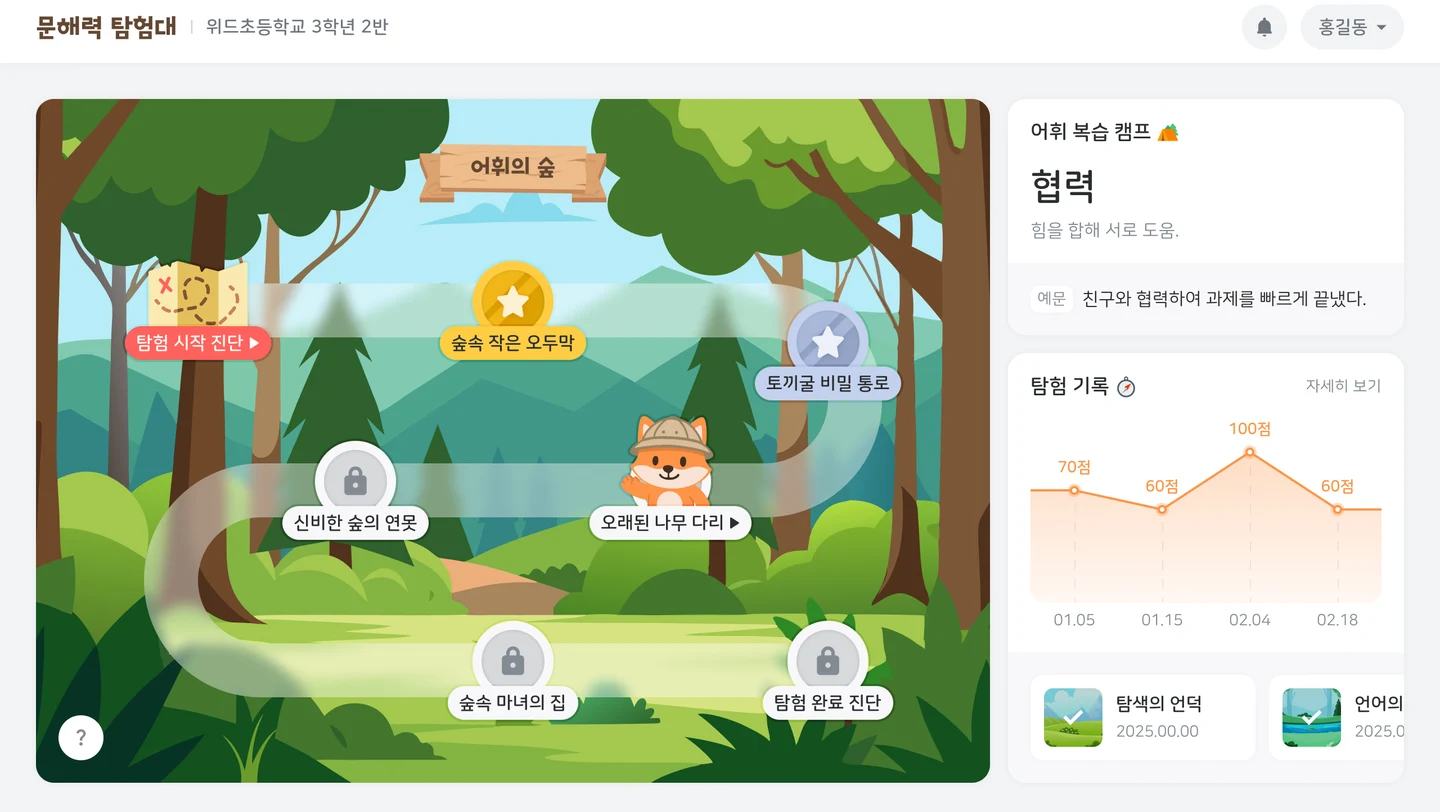
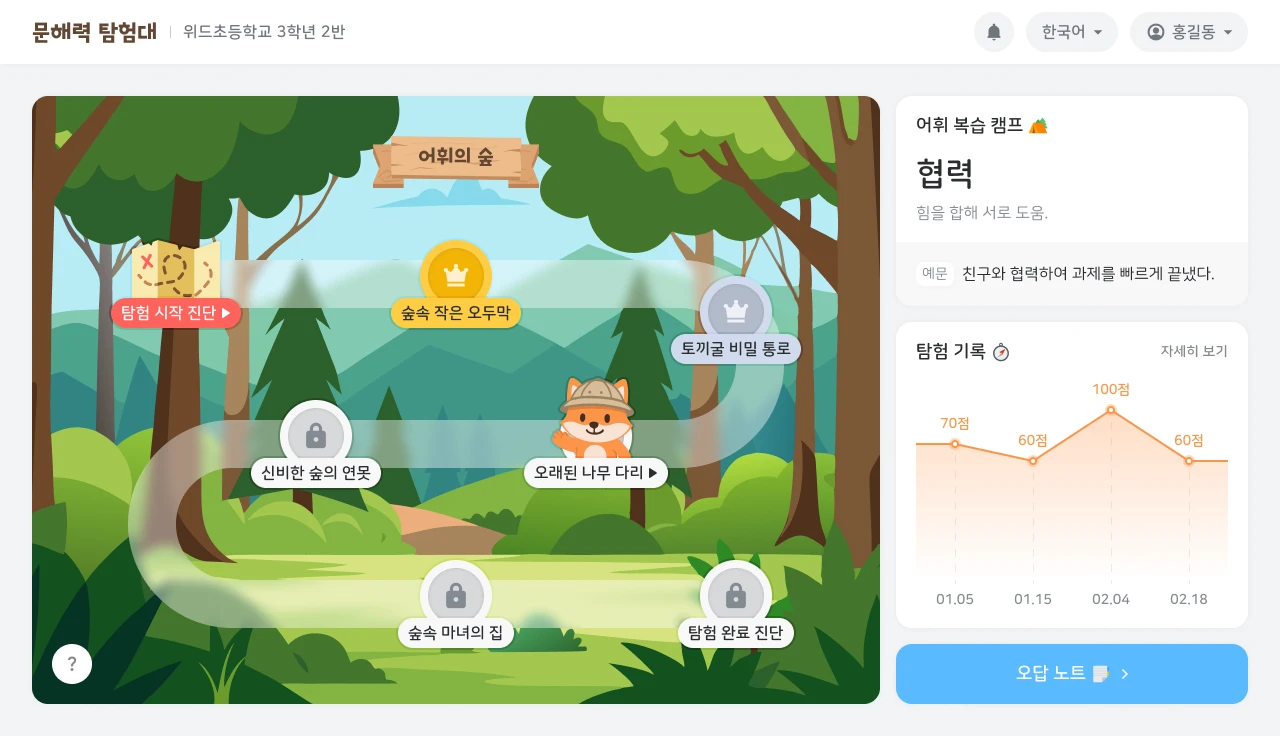
작은 화면에서 자세히 보기 가려짐 수정 외
- 스택: 카드가 화면보다 길면 고정 위치를 올려 버튼까지 보인 뒤 고정 (1280x620~ 8장 모두 클릭 가능)
- 카드 제목 옆 작은 영문명(XaaS·JOBKOK·JANGO·INTERBOX·HoloOrder)
- 문해력탐험대: Figma 진단하기 홈, 흰색 태블릿 베젤
- 말풍선: 안녕하세요!

diff --git a/index.html b/index.html
@@ -97,6 +97,9 @@ nav a.on{color:var(--ink)}
 .pcard:nth-child(5){background:#f3edff;top:146px}
 .pcard .hd{display:flex;justify-content:space-between;align-items:flex-start;gap:20px;flex-wrap:wrap}
 .pcard .tag{font-family:var(--mono);font-size:10.5px;letter-spacing:.08em;border:1.5px solid var(--ink);background:#fff;padding:5px 11px;border-radius:100px;text-transform:uppercase}
+.pcard h3 .en,.pc-tb .nm .en{font-family:var(--mono);font-weight:500;letter-spacing:.08em;color:var(--gy);vertical-align:middle}
+.pcard h3 .en{font-size:.36em;margin-left:.5em;position:relative;top:-.1em}
+.pc-tb .nm .en{font-size:.72em}
 .pcard h3{font-size:clamp(28px,3.6vw,46px);font-weight:800;letter-spacing:-.035em;line-height:1.05;margin-top:16px}
 .pcard .bd{display:grid;grid-template-columns:1.1fr 1fr;gap:38px;margin-top:22px;align-items:start}
 .pcard p{font-size:15.5px;color:#3d3d44;text-wrap:pretty}
@@ -307,8 +310,9 @@ html.lock{overflow:hidden}
 .scr.cab .kl{height:42px;display:grid;place-items:center;font-family:var(--mono);font-size:9.5px;letter-spacing:.16em;color:var(--gy)}
 .scr.cab .kf{width:150px;height:14px;margin-top:6px;border:2.5px solid var(--ink);border-radius:4px;background:#e9e5dc;box-shadow:5px 5px 0 var(--ink)}
 /* 태블릿(가로): 균일한 검정 베젤 + 전면 카메라 점 */
-.scr.tab .kb{position:relative;border:2.5px solid var(--ink);border-radius:22px;background:#1d1d22;padding:16px 20px;box-shadow:9px 9px 0 var(--ink)}
-.scr.tab .kb::before{content:'';position:absolute;left:8px;top:50%;width:5px;height:5px;margin-top:-2.5px;border-radius:50%;background:#55555c}
+.scr.tab .kb{position:relative;border:2.5px solid var(--ink);border-radius:22px;background:#fff;padding:16px 20px;box-shadow:9px 9px 0 var(--ink)}
+.scr.tab .kb::before{content:'';position:absolute;left:8px;top:50%;width:5px;height:5px;margin-top:-2.5px;border-radius:50%;background:var(--ink)}
+.scr.tab .ks{border:2px solid var(--ink)}
 .scr.tab .ks{width:100%;max-width:400px;border-radius:6px}
 .scr.tab .ks img{height:auto}
 @media(max-width:760px){.scr.stand .ks{width:176px}.scr.stand .kf{width:226px}.scr.cab .ks{width:156px}.scr.tab .kb{padding:10px 14px;border-radius:16px}}
@@ -547,7 +551,7 @@ html.lock{overflow:hidden}
     </div>
     <div class="lego-slot" aria-hidden="true">
       <div class="lego" id="lego" data-state="hero" title="임서하">
-        <div class="lg-bubble" id="lgBubble">안녕하세요<br>임서하입니다.</div>
+        <div class="lg-bubble" id="lgBubble">안녕하세요!<br>임서하입니다.</div>
         <div class="lg-fig"><div class="lg-tilt">
           <div class="lg-p lg-legs" style="--i:0;position:absolute;inset:0;z-index:1">
             <img class="lg-part" style="left:23.9%;top:55.31%;width:75.49%" src="assets/lego_studs.webp" alt="" draggable="false">
@@ -638,7 +642,7 @@ function CK(t){return '<span class="ck">확인 필요'+(t?' · '+esc(t):'')+'</s
 /* ================= 데이터 (출처: projects.json verified_numbers / my_role / deliverables) ================= */
 var P = [
 {
- id:'xaas', main:{src:'assets/xaas_admin_home_v2.webp',w:1600,h:1120,cap:'자스 관리자 홈 (고도화) — 회차 잔여일·교육 현황·점수 비교',date:'Figma 디자인 v2 · PC'}, no:'001', name:'자스', tag:'AI 교육 · B2B SaaS', period:'2025.02 – 2025.07 (고도화)', ac:'#2f5bff',
+ id:'xaas', main:{src:'assets/xaas_admin_home_v2.webp',w:1600,h:1120,cap:'자스 관리자 홈 (고도화) — 회차 잔여일·교육 현황·점수 비교',date:'Figma 디자인 v2 · PC'}, no:'001', name:'자스', en:'XaaS', tag:'AI 교육 · B2B SaaS', period:'2025.02 – 2025.07 (고도화)', ac:'#2f5bff',
  cv:{role:'단독 — AI 교육 고도화 기획 (요구사항·스토리보드 작성)',roleCk:'v2 시각 디자인 제작 주체',scope:'교육생·관리자 고도화 요구사항(교육 8 · 면접 4) · 교육 스토리보드 20p · 관리자 홈·상담사·교육 관리·평가 리포트 재설계',out:null,outNote:'개발 반영·운영 여부와 사용 지표는 근거가 없어 기재하지 않음'},
  stamp:'단독', status:'고도화 기획서 · Figma v2 PC 화면 확인 — 개발 반영·운영 여부 확인 필요',
  one:'NIPA XaaS 선도프로젝트로 만든 상담원 대상 AI 교육·AI 면접 서비스입니다. 이전 기획자가 설계한 1차 버전을 2025년에 고도화하며 요구사항과 교육생·관리자 스토리보드를 단독으로 작성했습니다.',
@@ -676,7 +680,7 @@ var P = [
  missing:['IA','유저플로우','운영정책서']
 },
 {
- id:'literacy', main:{src:'assets/main_literacy.webp',w:1440,h:812,dev:'tab',cap:'문해력탐험대 학생 홈 — 어휘의 숲 탐험 지도·탐험 기록',date:'고도화 화면 · 태블릿'}, no:'002', name:'문해력탐험대', tag:'Education · B2G', period:'2024.11 – 운영 중', ac:'#ff5d3b',
+ id:'literacy', main:{src:'assets/main_literacy.webp',w:1280,h:736,dev:'tab',cap:'문해력탐험대 진단하기 홈 — 어휘의 숲 탐험 지도·탐험 기록',date:'Figma 고도화 디자인 · 태블릿'}, no:'002', name:'문해력탐험대', tag:'Education · B2G', period:'2024.11 – 운영 중', ac:'#ff5d3b',
  cv:{role:'단독 — 서비스 기획 전담 (약관·소개서·학생매뉴얼은 선임 선행본 개정·고도화)',scope:'요구사항 → 데이터정책 V1.1 → QA(11인 분담) → 매뉴얼·약관 → CS 12건, 전 주기',out:'실제 도입 학교 <mark>0 → 10곳</mark> · 실사용 학생 <mark>533명</mark>'},
  stamp:'단독', status:'오픈 · 운영 중',
  one:'초·중등 대상 AI 문해력 진단·트레이닝. 요구사항부터 운영·CS까지 한 서비스의 전 주기를 맡아, 실제 도입 학교 2025년 0곳 → 2026년 10곳으로 이어졌습니다.',
@@ -793,7 +797,7 @@ var P = [
  missing:['IA','유저플로우','WBS','회의록']
 },
 {
- id:'jobkok', main:{src:'assets/main_jobkok.webp',w:1440,h:806,cap:'잡콕 2.0 홈 — 통합 검색 + 직군 20종 마퀴',date:'Figma 2.0 디자인 · PC'}, no:'005', name:'잡콕', tag:'Platform / Data', period:'2025.10 – 고도화 중', ac:'#ffc83d',
+ id:'jobkok', main:{src:'assets/main_jobkok.webp',w:1440,h:806,cap:'잡콕 2.0 홈 — 통합 검색 + 직군 20종 마퀴',date:'Figma 2.0 디자인 · PC'}, no:'005', name:'잡콕', en:'JOBKOK', tag:'Platform / Data', period:'2025.10 – 고도화 중', ac:'#ffc83d',
  cv:{role:'공동 — 고도화 기획 · QA · 데이터 담당',scope:'QA TC 작성 규칙 제정 · QA 체크리스트 설계(7인 분담) · 직무분류표 · 온톨로지 4종 · 약관 3종',out:'QA <mark>397케이스</mark> 설계, N/A <mark>12건 전부</mark> 기획서 미정의로 역추적'}, polFile:'잡콕_QA_체크리스트_임서하.xlsx',
  stamp:'공동', status:'개발중 · 고도화 진행 중',
  one:'AI 면접 분석 + 채용공고 통합 플랫폼. QA 397케이스를 설계해 N/A 12건 전부가 기획서 미정의였음을 역추적하고, 직무분류·온톨로지 등 AI 데이터 파트까지 맡았습니다.',
@@ -829,7 +833,7 @@ var P = [
  missing:['기능명세서','IA','WBS']
 },
 {
- id:'janggo', main:{src:'assets/main_janggo.webp',w:1440,h:945,cap:'장고 구직자 홈 — 공고 검색 + AI 적합도 공고 카드',date:'Figma 디자인 · PC'}, no:'006', name:'장고', tag:'서울형 R&D 사업 · B2G', period:'2026.04 – 2026.09', ac:'#9a63ff',
+ id:'janggo', main:{src:'assets/main_janggo.webp',w:1440,h:945,cap:'장고 구직자 홈 — 공고 검색 + AI 적합도 공고 카드',date:'Figma 디자인 · PC'}, no:'006', name:'장고', en:'JANGO', tag:'서울형 R&D 사업 · B2G', period:'2026.04 – 2026.09', ac:'#9a63ff',
  cv:{role:'단독 — 기획 전담 + 인증·검증 문서 총괄',scope:'하이어 정책 이관 · 요구사항 v2.0 · 기능명세 v2.0 · IA 3도메인 · ISO/IEC 25023 사용성 검증 · TTA 증빙',out:'사용성 검증 <mark>176건</mark>으로 기획-구현 불일치(60초 vs 15초) 적발·수정'},
  stamp:'단독', status:'과제 완료 (2026-09-16 최종보고) · 서비스 단계 확인 필요',
  one:'장애인 취업지원 AI 플랫폼 R&D 시제품. 중단된 하이어의 확정 정책을 국가과제 요건(정량지표·ISO 검증·AI 신뢰성 증빙)에 맞춰 재설계·이관하고, 인증 대응 문서를 총괄했습니다.',
@@ -868,7 +872,7 @@ var P = [
  missing:['WBS','매뉴얼','운영정책서']
 },
 {
- id:'schoolkiosk', main:{src:'assets/main_kiosk.webp',w:540,h:960,dev:'stand',devLabel:'INTERBOX',cap:'인터박스 메인 — AI 안내원 + 길찾기·급식·학교소식·FAQ',date:'최종 퍼블리싱 화면 · 1080×1920'}, no:'007', name:'인터박스', tag:'Kiosk · B2G', period:'2026.09 – 진행 중', ac:'#ff6fae',
+ id:'schoolkiosk', main:{src:'assets/main_kiosk.webp',w:540,h:960,dev:'stand',devLabel:'INTERBOX',cap:'인터박스 메인 — AI 안내원 + 길찾기·급식·학교소식·FAQ',date:'최종 퍼블리싱 화면 · 1080×1920'}, no:'007', name:'인터박스', en:'INTERBOX', tag:'Kiosk · B2G', period:'2026.09 – 진행 중', ac:'#ff6fae',
  cv:{role:'단독 — 신규 착수 기획 담당',roleCk:'역할 범위',scope:'킥오프 회의록 정리 · 홀로오더 자산 재사용/신규/삭제 매핑 · 배리어프리 무인정보단말기 법규 리서치',out:null,outNote:'진행 중 과제 — 성과·도입 실적은 기재하지 않음'}, polFile:'홀로오더 자산 재사용/신규/삭제 매핑표', polFileCk:'파일명',
  stamp:'단독', stampCk:true, status:'착수 · 요구사항 수집 단계',
  one:'학교 로비 안내 캐릭터 대화형 키오스크(서비스명 인터박스). 주문·결제형 키오스크 자산을 학교 안내형으로 전환하는 신규 착수 과제입니다.',
@@ -897,7 +901,7 @@ var P = [
  missing:['요구사항정의서','IA','화면기획서']
 },
 {
- id:'holoorder', main:{src:'assets/main_holo.webp',w:678,h:1209,dev:'cab',devLabel:'HOLOORDER',cap:'홀로오더 메뉴 화면 — 홀로그램 AI 매니저 + 추천 메뉴·장바구니',date:'holoorder.kr 실서비스 · 키오스크'}, no:'008', name:'홀로오더', tag:'Kiosk · O2O', period:'2026.06 – 2026.09', ac:'#ff8a3d',
+ id:'holoorder', main:{src:'assets/main_holo.webp',w:678,h:1209,dev:'cab',devLabel:'HOLOORDER',cap:'홀로오더 메뉴 화면 — 홀로그램 AI 매니저 + 추천 메뉴·장바구니',date:'holoorder.kr 실서비스 · 키오스크'}, no:'008', name:'홀로오더', en:'HoloOrder', tag:'Kiosk · O2O', period:'2026.06 – 2026.09', ac:'#ff8a3d',
  cv:{role:'서비스기획 담당 — 착수(킥오프)부터 참여 · 총괄 기획은 대표',scope:'점주·최고관리자 관리자 기능 정의 · 화면기획서 31종 · 운영 정책 · QA 시트 · 개발 테스트 플로우 · 사용안내서/서비스소개서',out:null,outNote:'실증 운영 성과(매출·주문·설문)는 PoC 데모 데이터라 기재하지 않음'},
  stamp:'착수 참여', status:'개발 서버 구동 · QA 단계 확인 — 실증 매장 정식 운영 여부 확인 필요',
  one:'무인 카페에서 홀로그램 AI 매니저와 음성·터치로 주문하는 키오스크와 점주 관리자 웹입니다. 착수 회의부터 참여해 관리자 기능 정의, 화면기획서 31종, 운영 정책, QA 시트를 맡았습니다.',
@@ -1009,7 +1013,7 @@ function buildCard(p,i){
   var h='';
   /* 상단 슬림 바 */
   h+='<div class="pc-tb"><div class="in"><div class="tbi">'+
-     '<span class="tag">'+p.no+'</span><b class="nm" id="t-'+p.id+'">'+esc(p.name)+'</b><span class="ms">'+esc(p.stamp)+'</span>'+
+     '<span class="tag">'+p.no+'</span><b class="nm" id="t-'+p.id+'">'+esc(p.name)+(p.en?' <small class="en" lang="en">'+esc(p.en)+'</small>':'')+'</b><span class="ms">'+esc(p.stamp)+'</span>'+
      '<span class="cur" aria-hidden="true"></span>'+
      '<button type="button" class="ib pv"'+(prev?' aria-label="이전 프로젝트: '+esc(prev.name)+'"':' disabled aria-label="이전 프로젝트 없음"')+'>&larr;</button>'+
      '<button type="button" class="ib nx"'+(next?' aria-label="다음 프로젝트: '+esc(next.name)+'"':' disabled aria-label="다음 프로젝트 없음"')+'>&rarr;</button>'+
@@ -1019,7 +1023,7 @@ function buildCard(p,i){
   var cv=p.cv, outDD = cv.out ? cv.out+(cv.outNote?' <small>· '+esc(cv.outNote)+'</small>':'') : esc(cv.outNote||'');
   h+='<div class="pc-sw"><div class="in"><div class="sum"><div class="sl">'+
      '<div class="tags"><span class="tag">'+p.no+' · '+esc(p.tag)+'</span><span class="tag">'+esc(p.period)+'</span></div>'+
-     '<h3>'+esc(p.name)+'</h3><p class="one">'+esc(p.one)+'</p>'+
+     '<h3>'+esc(p.name)+(p.en?'<small class="en" lang="en">'+esc(p.en)+'</small>':'')+'</h3><p class="one">'+esc(p.one)+'</p>'+
      '<dl class="cv" aria-label="'+esc(p.name)+' 요약 경력기술서">'+
        '<div><dt>역할</dt><dd>'+esc(cv.role)+(cv.roleCk?CK(cv.roleCk):'')+'</dd></div>'+
        '<div><dt>담당 범위</dt><dd>'+esc(cv.scope)+'</dd></div>'+
@@ -1199,7 +1203,7 @@ P.forEach(function(p,i){ stack.appendChild(buildCard(p,i)); });
       var p = 0;
       if(i < cards.length - 1){
         var nTop = cards[i+1].getBoundingClientRect().top;
-        var pin = tops[i+1] || 160;
+        var pin = parseFloat(getComputedStyle(cards[i+1]).top) || tops[i+1] || 160;
         p = 1 - (nTop - pin) / 420;
         p = p < 0 ? 0 : (p > 1 ? 1 : p);
       }
@@ -1210,6 +1214,18 @@ P.forEach(function(p,i){ stack.appendChild(buildCard(p,i)); });
   function onScroll(){ if(!ticking){ ticking = true; requestAnimationFrame(update); } }
   window.addEventListener('scroll', onScroll, {passive:true});
   window.addEventListener('resize', onScroll);
+  /* 카드가 화면보다 길면 고정 위치를 위로 올려, 하단 '자세히 보기'까지 보인 뒤에 고정되게 한다 */
+  function fitPins(){
+    if(OPEN) return;
+    cards.forEach(function(c,i){
+      if(window.innerWidth <= 900){ c.style.removeProperty('top'); return; }
+      var base = tops[i] || 160, h = c.offsetHeight, room = window.innerHeight - 24;
+      if(base + h > room) c.style.top = Math.round(room - h) + 'px'; else c.style.removeProperty('top');
+    });
+  }
+  fitPins();
+  window.addEventListener('resize', fitPins);
+  window.addEventListener('load', fitPins);
   e12Update = update;
   update();
 })();
@@ -1282,7 +1298,7 @@ P.forEach(function(p,i){ stack.appendChild(buildCard(p,i)); });
     var lego = document.getElementById('lego'), slot = document.querySelector('.lego-slot'), bub = document.getElementById('lgBubble');
     if(!lego || !slot) return;
     var W = 183, H = 320;
-    var TXT = {hero:'안녕하세요\n임서하입니다.', work:'설계도 보는 중', way:'예외 찾는 중', contact:'읽어주셔서 감사합니다!'};
+    var TXT = {hero:'안녕하세요!\n임서하입니다.', work:'설계도 보는 중', way:'예외 찾는 중', contact:'읽어주셔서 감사합니다!'};
     var secs = [['work', document.getElementById('work')], ['way', document.getElementById('way')], ['contact', document.getElementById('contact')]];
     var state = 'hero', docked = false, ticking = false, bubT = null;
     function mob(){ return window.innerWidth <= 900; }
